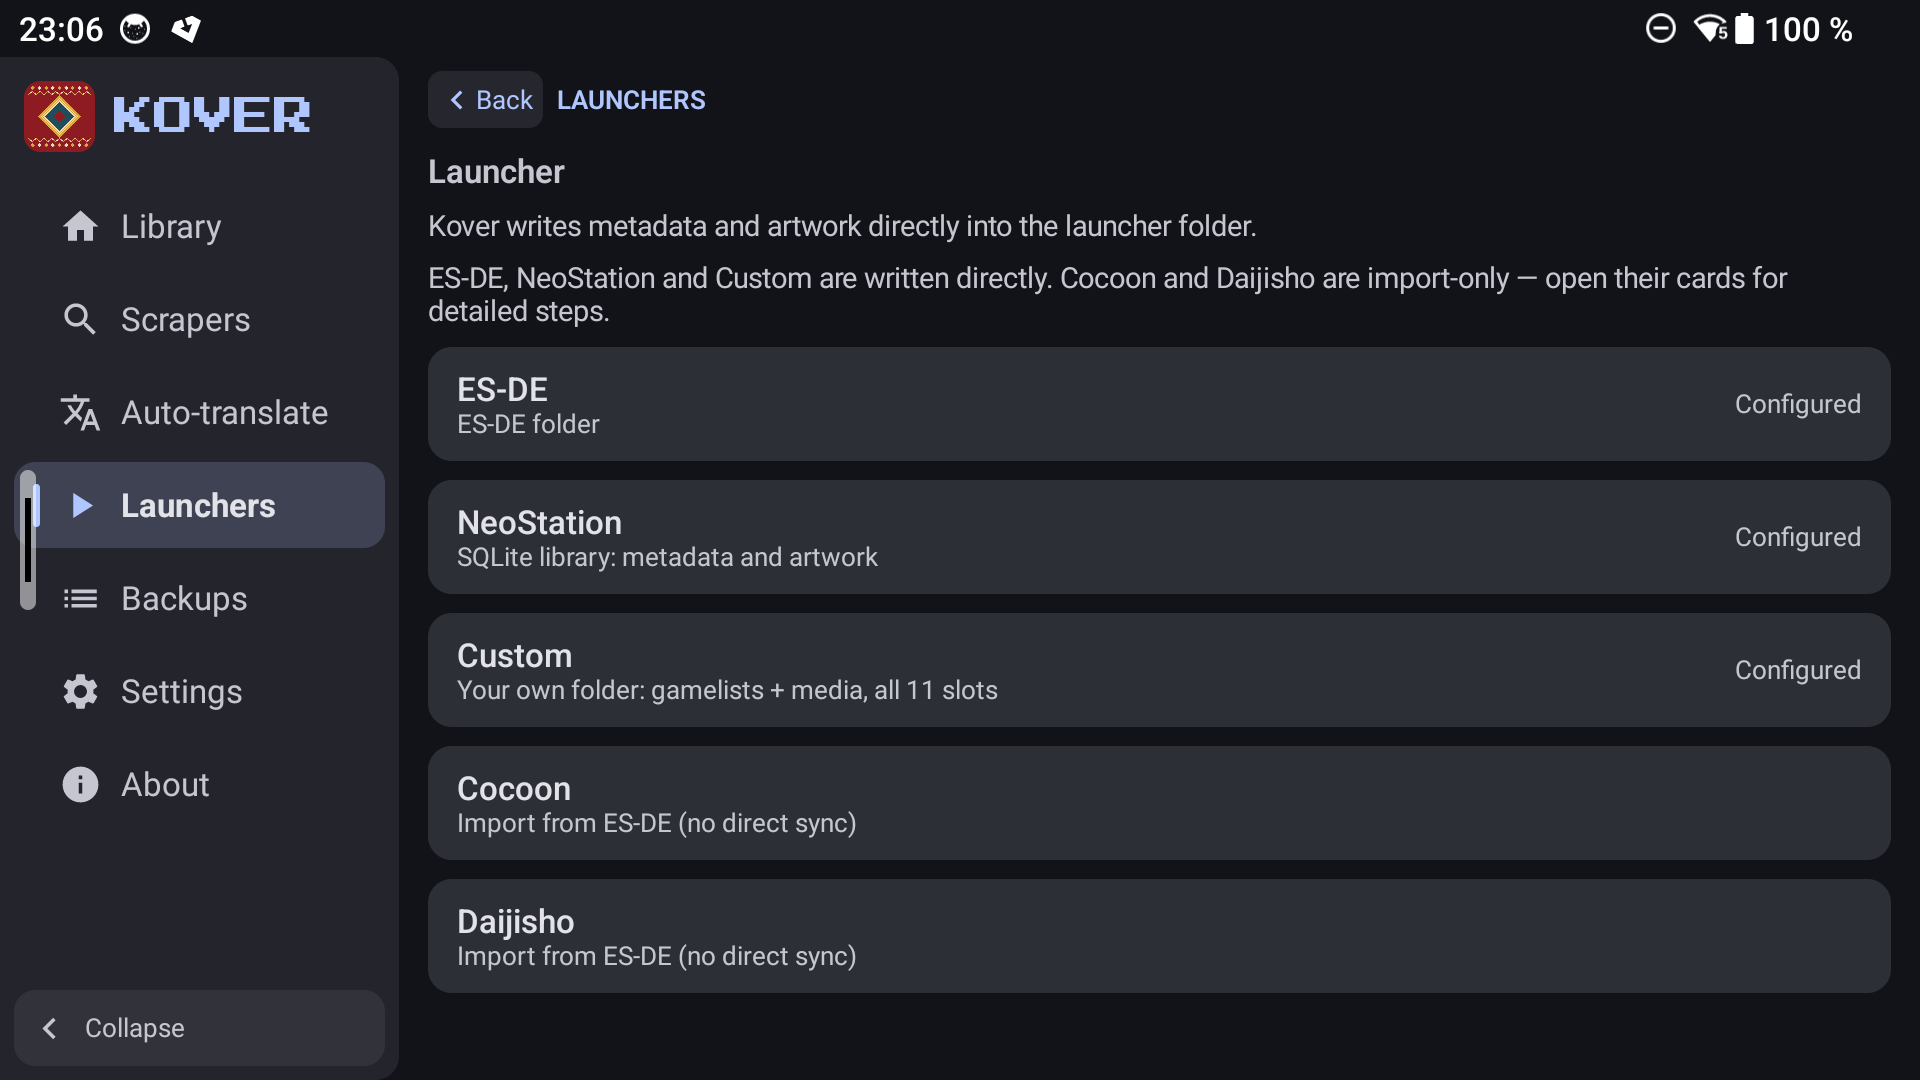
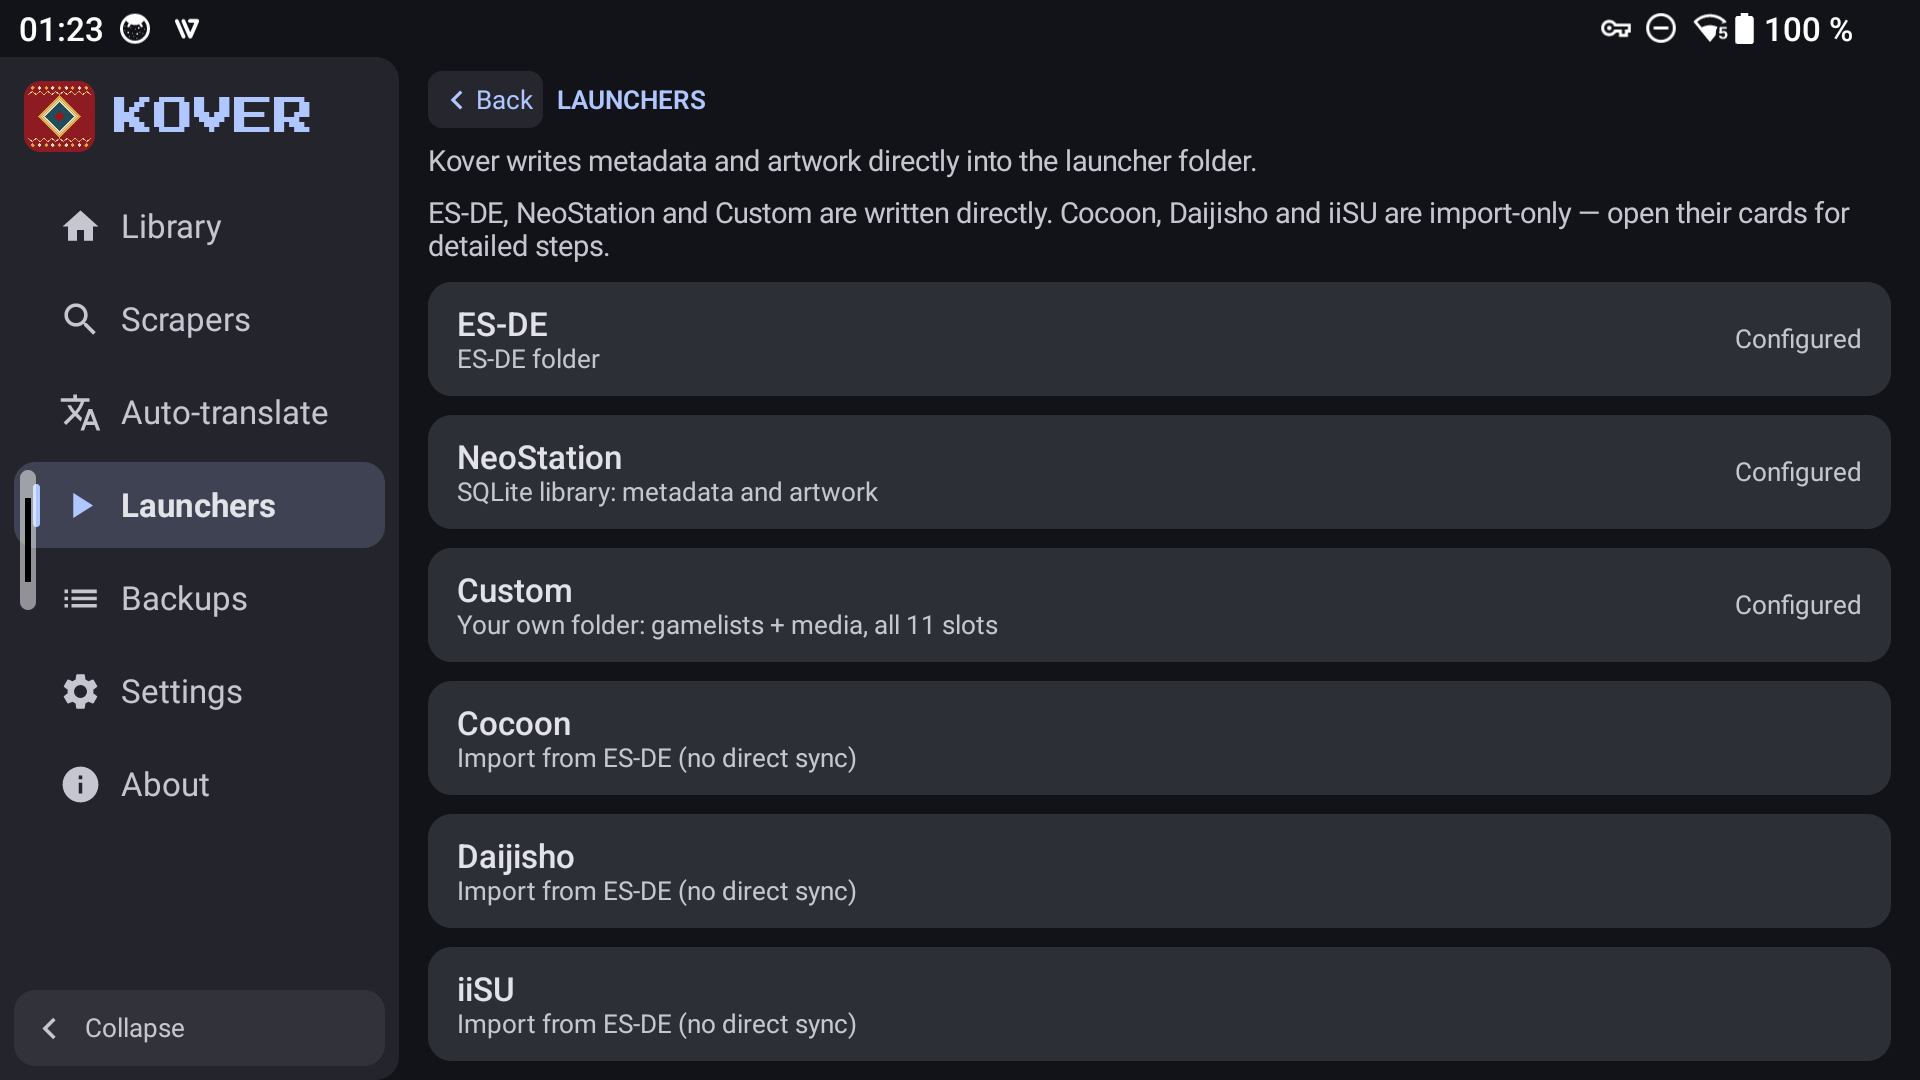
Add iiSU import guide to launchers

Changed region(s): [[0.2188, 0.1222, 1.0, 1.0], [0.0, 0.0, 0.0625, 0.0306], [0.0938, 0.0, 0.125, 0.0306]]

diff --git a/app/src/main/java/com/ark/kover/ui/settings/LauncherDetailScreen.kt b/app/src/main/java/com/ark/kover/ui/settings/LauncherDetailScreen.kt
@@ -87,6 +87,7 @@ fun LauncherDetailScreen(
         "custom" -> "Custom"
         "cocoon" -> "Cocoon"
         "daijisho" -> "Daijisho"
+        "iisu" -> "iiSU"
         "emudeck" -> "EmuDeck"
         else -> stringResource(R.string.nav_launcher)
     }
@@ -98,19 +99,15 @@ fun LauncherDetailScreen(
         onBack = onBack,
     ) {
         Text(title, style = MaterialTheme.typography.titleMedium)
-        if (launcherId == "cocoon" || launcherId == "daijisho") {
-            val intro = if (launcherId == "cocoon") {
-                R.string.cocoon_info_body
-            } else {
-                R.string.daijisho_info_body
-            }
-            val howto = if (launcherId == "cocoon") {
-                R.string.cocoon_howto
-            } else {
-                R.string.daijisho_howto
-            }
+        val importGuide = when (launcherId) {
+            "cocoon" -> R.string.cocoon_info_body to R.string.cocoon_howto
+            "daijisho" -> R.string.daijisho_info_body to R.string.daijisho_howto
+            "iisu" -> R.string.iisu_info_body to R.string.iisu_howto
+            else -> null
+        }
+        if (importGuide != null) {
             Text(
-                text = stringResource(intro),
+                text = stringResource(importGuide.first),
                 style = MaterialTheme.typography.bodySmall,
                 color = MaterialTheme.colorScheme.onSurfaceVariant,
             )
@@ -119,7 +116,7 @@ fun LauncherDetailScreen(
                 modifier = Modifier.padding(top = Dimens.Gap6),
             )
             Text(
-                text = stringResource(howto),
+                text = stringResource(importGuide.second),
                 style = MaterialTheme.typography.bodySmall,
                 color = MaterialTheme.colorScheme.onSurfaceVariant,
             )

diff --git a/app/src/main/java/com/ark/kover/ui/settings/AboutScreen.kt b/app/src/main/java/com/ark/kover/ui/settings/AboutScreen.kt
@@ -72,6 +72,7 @@ fun AboutScreen(
         LauncherInfo("Custom", R.string.about_launcher_custom)
         LauncherInfo("Cocoon", R.string.about_launcher_via_esde_import)
         LauncherInfo("Daijisho", R.string.about_launcher_via_esde_import)
+        LauncherInfo("iiSU", R.string.about_launcher_via_esde_import)
 
         SectionTitle(text = stringResource(R.string.about_services))
         ServiceRow("ES-DE", R.string.about_esde_desc, "https://es-de.org", context)

diff --git a/app/src/main/java/com/ark/kover/ui/settings/LauncherSettingsScreen.kt b/app/src/main/java/com/ark/kover/ui/settings/LauncherSettingsScreen.kt
@@ -91,5 +91,10 @@ fun LauncherListScreen(
             subtitle = stringResource(R.string.launcher_import_subtitle),
             onClick = { onLauncherClick("daijisho") },
         )
+        ActionRow(
+            title = "iiSU",
+            subtitle = stringResource(R.string.launcher_import_subtitle),
+            onClick = { onLauncherClick("iisu") },
+        )
     }
 }

diff --git a/README.ru.md b/README.ru.md
@@ -41,6 +41,7 @@ Kover не запускает игры и не собирает библиоте
 | **Custom** | своя аккуратная папка: `gamelists/{система}/gamelist.xml` + `media/{система}/{слот}` |
 | **Cocoon** | напрямую не пишет — изменения подхватывает импорт ES-DE самого Cocoon |
 | **Daijisho** | напрямую не пишет — импорт `gamelist.xml` и папок медиа через ES-DE/Skraper-импорт Daijisho |
+| **iiSU** | напрямую не пишет — подключите папку ES-DE; метаданные импортируются, арт используется по ссылке |
 
 Переключение между лаунчерами — одно нажатие; у каждого запоминается своя папка данных.
 
@@ -157,7 +158,7 @@ Kover — свободное ПО под **GNU General Public License v3.0 (GPL-
 [THIRD_PARTY_NOTICES.md](THIRD_PARTY_NOTICES.md).
 
 Названия игр, обложки и товарные знаки принадлежат их владельцам. Kover не связан с ES-DE,
-NeoStation, Cocoon, Daijisho, NeoAssets, SteamGridDB, Steam, RAWG и ScreenScraper.
+NeoStation, Cocoon, Daijisho, iiSU, NeoAssets, SteamGridDB, Steam, RAWG и ScreenScraper.
 
 ## Ссылки
 

diff --git a/README.md b/README.md
@@ -41,6 +41,7 @@ what you already had and take hours. Kover works the other way around:
 | **Custom** | its own tidy folder: `gamelists/{system}/gamelist.xml` + `media/{system}/{slot}` |
 | **Cocoon** | not written directly — pick up changes through Cocoon's own ES-DE import |
 | **Daijisho** | not written directly — import `gamelist.xml` and media folders through Daijisho's ES-DE/Skraper import |
+| **iiSU** | not written directly — link the ES-DE folder; metadata is imported and artwork stays referenced in place |
 
 Switching between launchers takes one tap; each remembers its own data folder.
 
@@ -155,7 +156,7 @@ See [LICENSE](LICENSE). Third-party components and their licenses are listed in
 [THIRD_PARTY_NOTICES.md](THIRD_PARTY_NOTICES.md).
 
 Game titles, cover art and trademarks belong to their respective owners. Kover is not affiliated
-with ES-DE, NeoStation, Cocoon, Daijisho, NeoAssets, SteamGridDB, Steam, RAWG or ScreenScraper.
+with ES-DE, NeoStation, Cocoon, Daijisho, iiSU, NeoAssets, SteamGridDB, Steam, RAWG or ScreenScraper.
 
 ## Links
 
